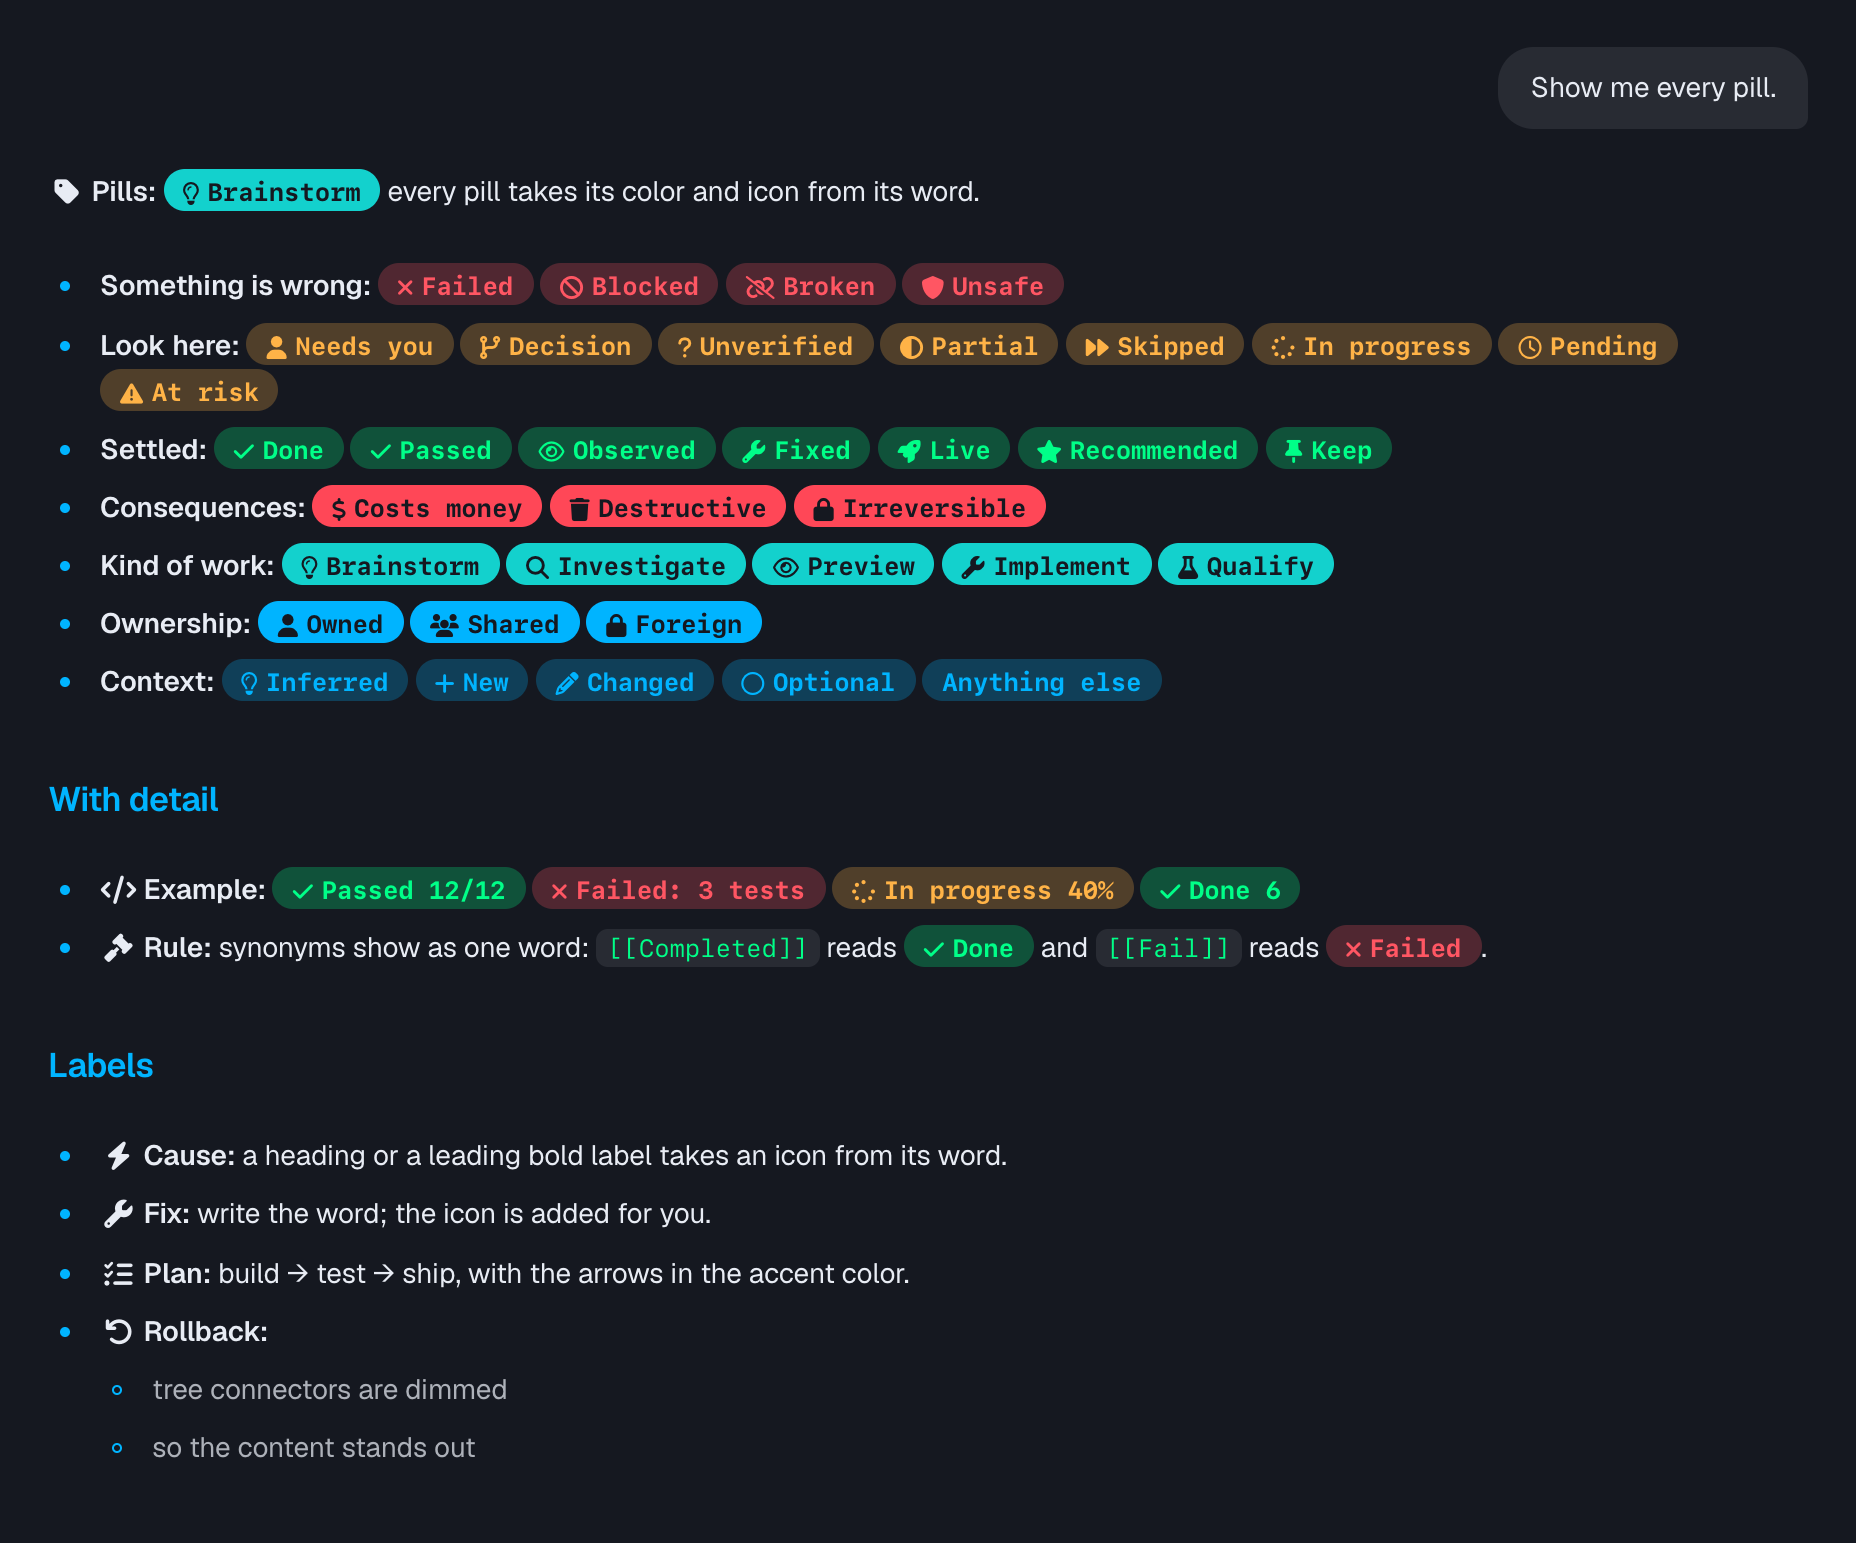
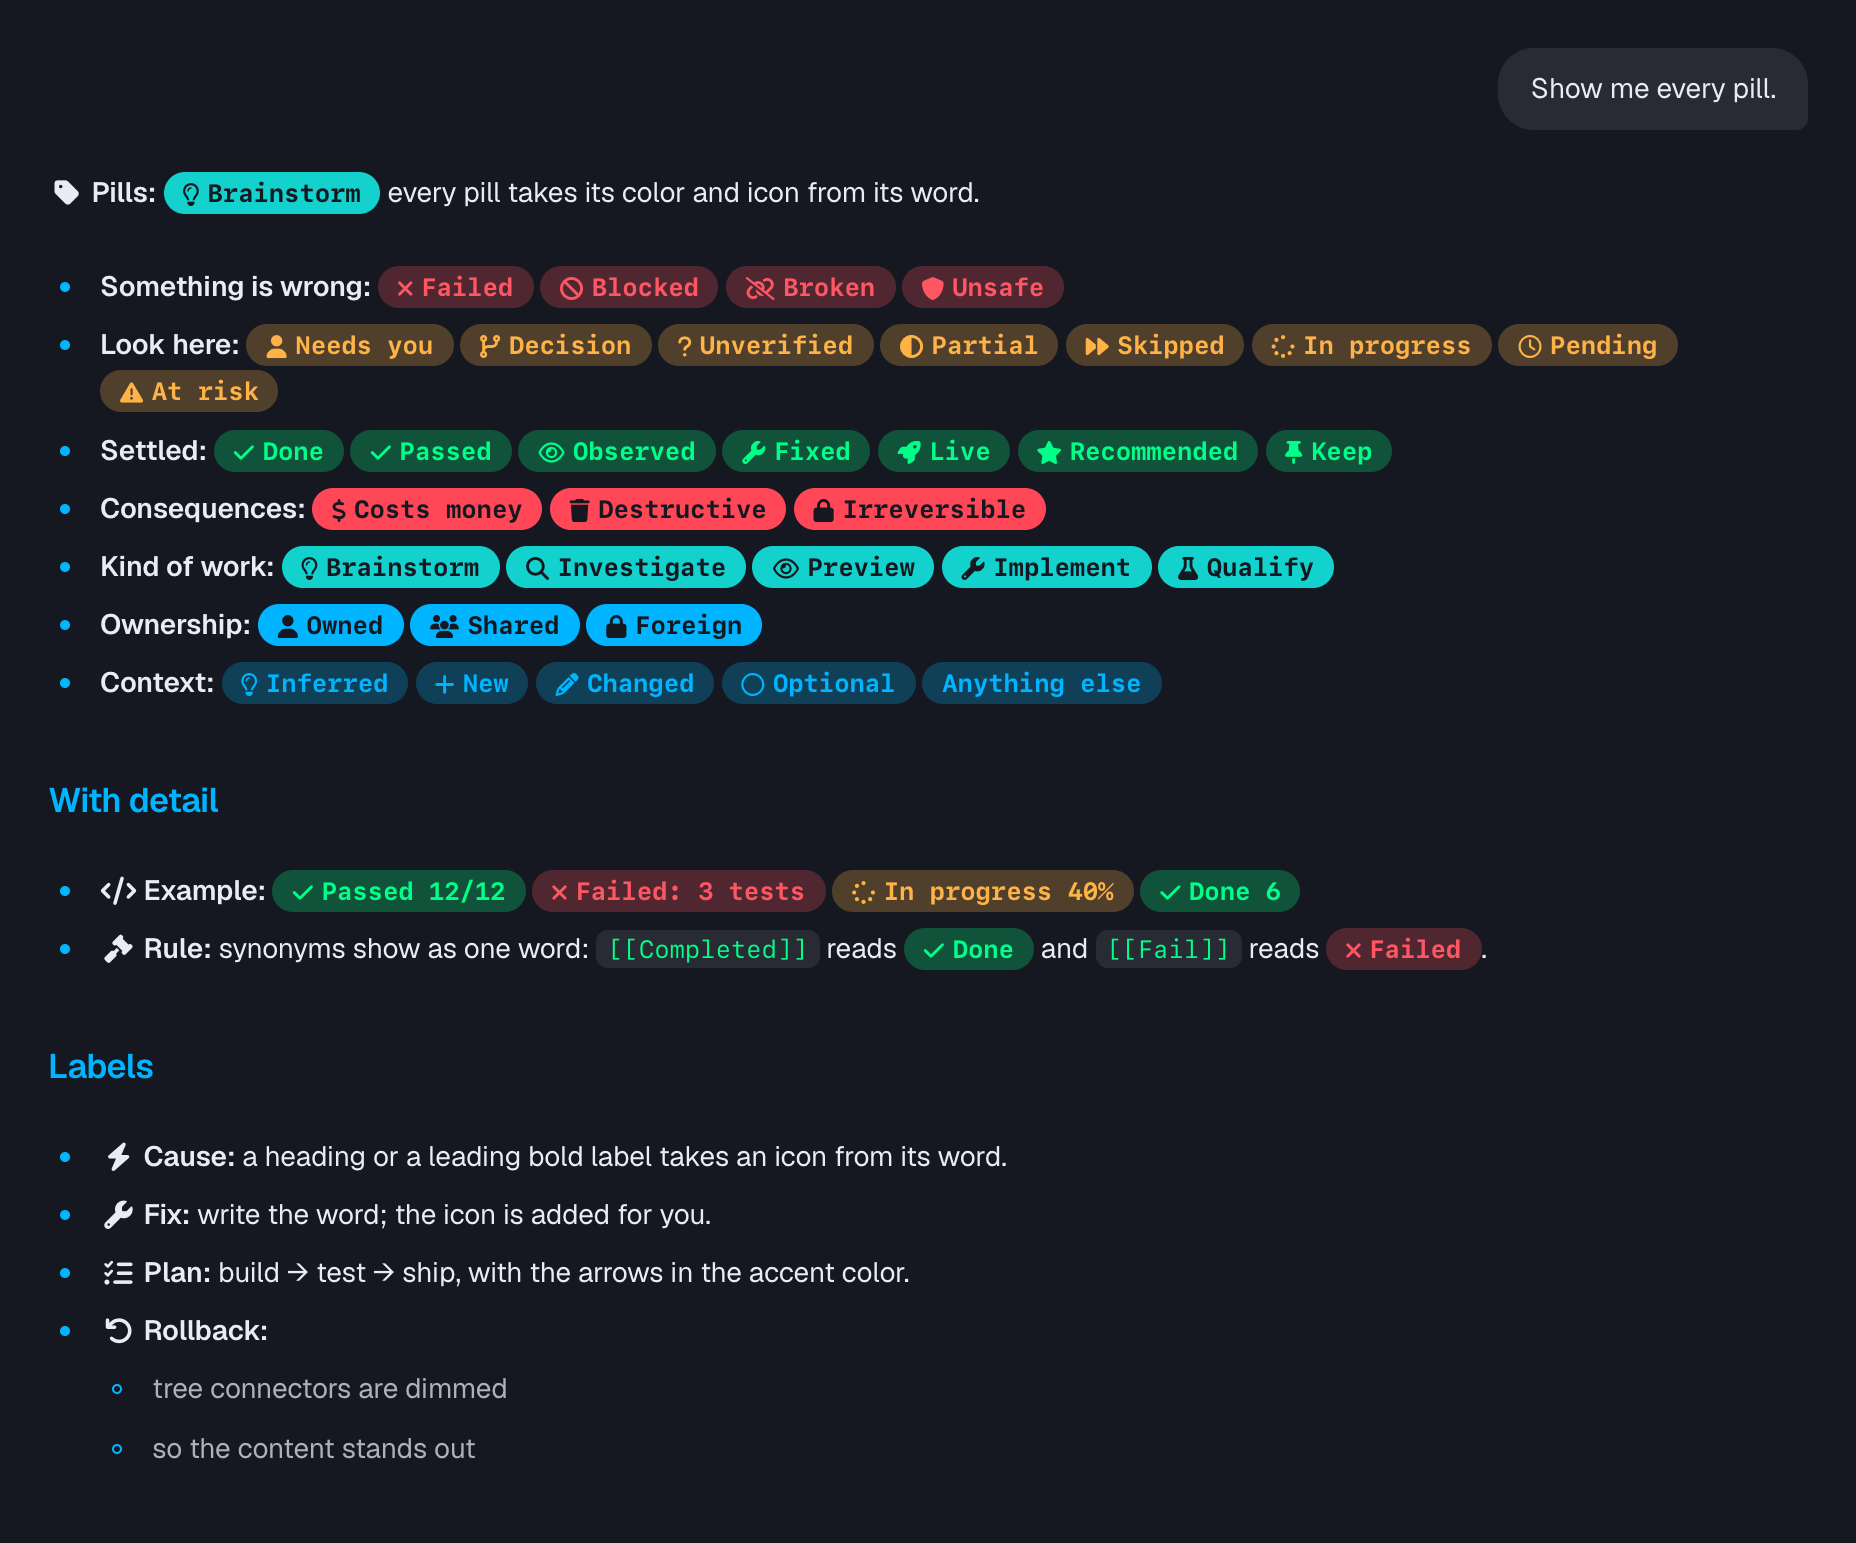
Even 2px padding on Tern pills
- Picked by eye from side-by-side variants in FiraCode: capitals sit about a pixel high, lowercase sits centered.

diff --git a/tern/pills.css b/tern/pills.css
@@ -17,11 +17,10 @@
 	box-shadow: none !important;
 	border-radius: 999px;
 	/*
-	 * Where the capitals sit depends on the code font's descent. 1px more above than below keeps them
-	 * within half a pixel of the middle in both SF Mono, Tern's default, and FiraCode, whose deeper
-	 * descent lifts them; Tern's own inline code sits higher than that in both.
+	 * Even padding, chosen by eye: the capitals sit about a pixel above the middle, which centers the
+	 * lowercase letters most words are made of.
 	 */
-	padding: 3px 10px 1px;
+	padding: 2px 10px;
 	/* Tern's own inline code in replies: the terminal's font at 12.5px. */
 	font-family: var(--tv-font, var(--mono));
 	font-size: 12.5px;
